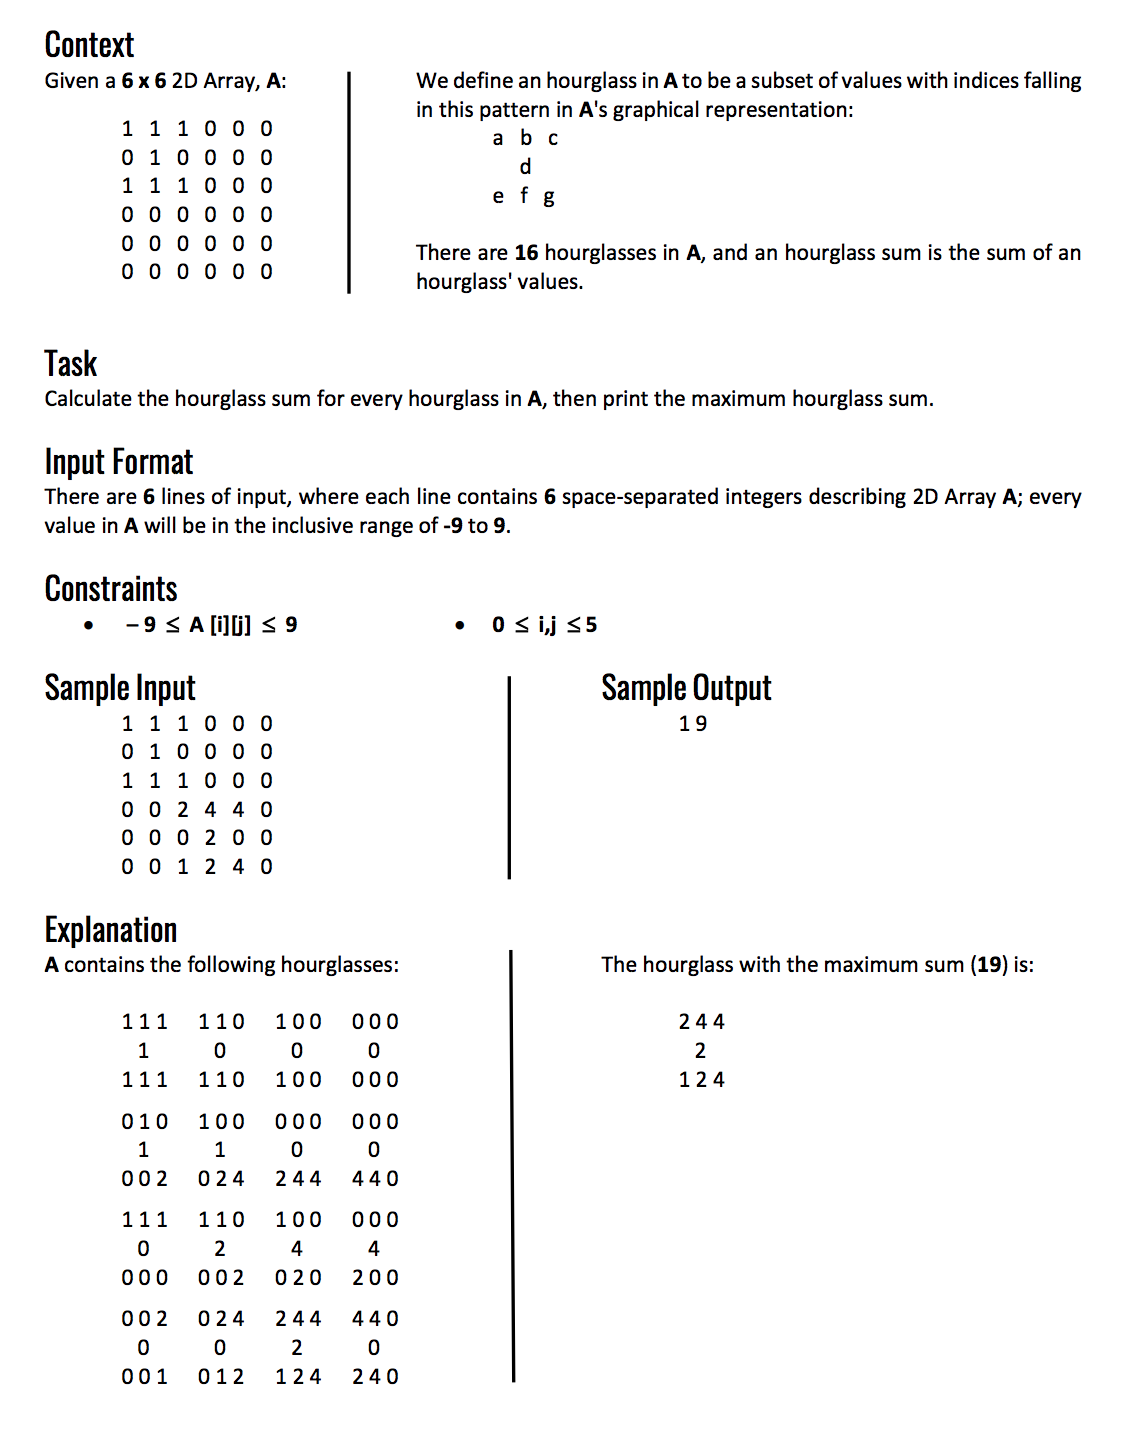
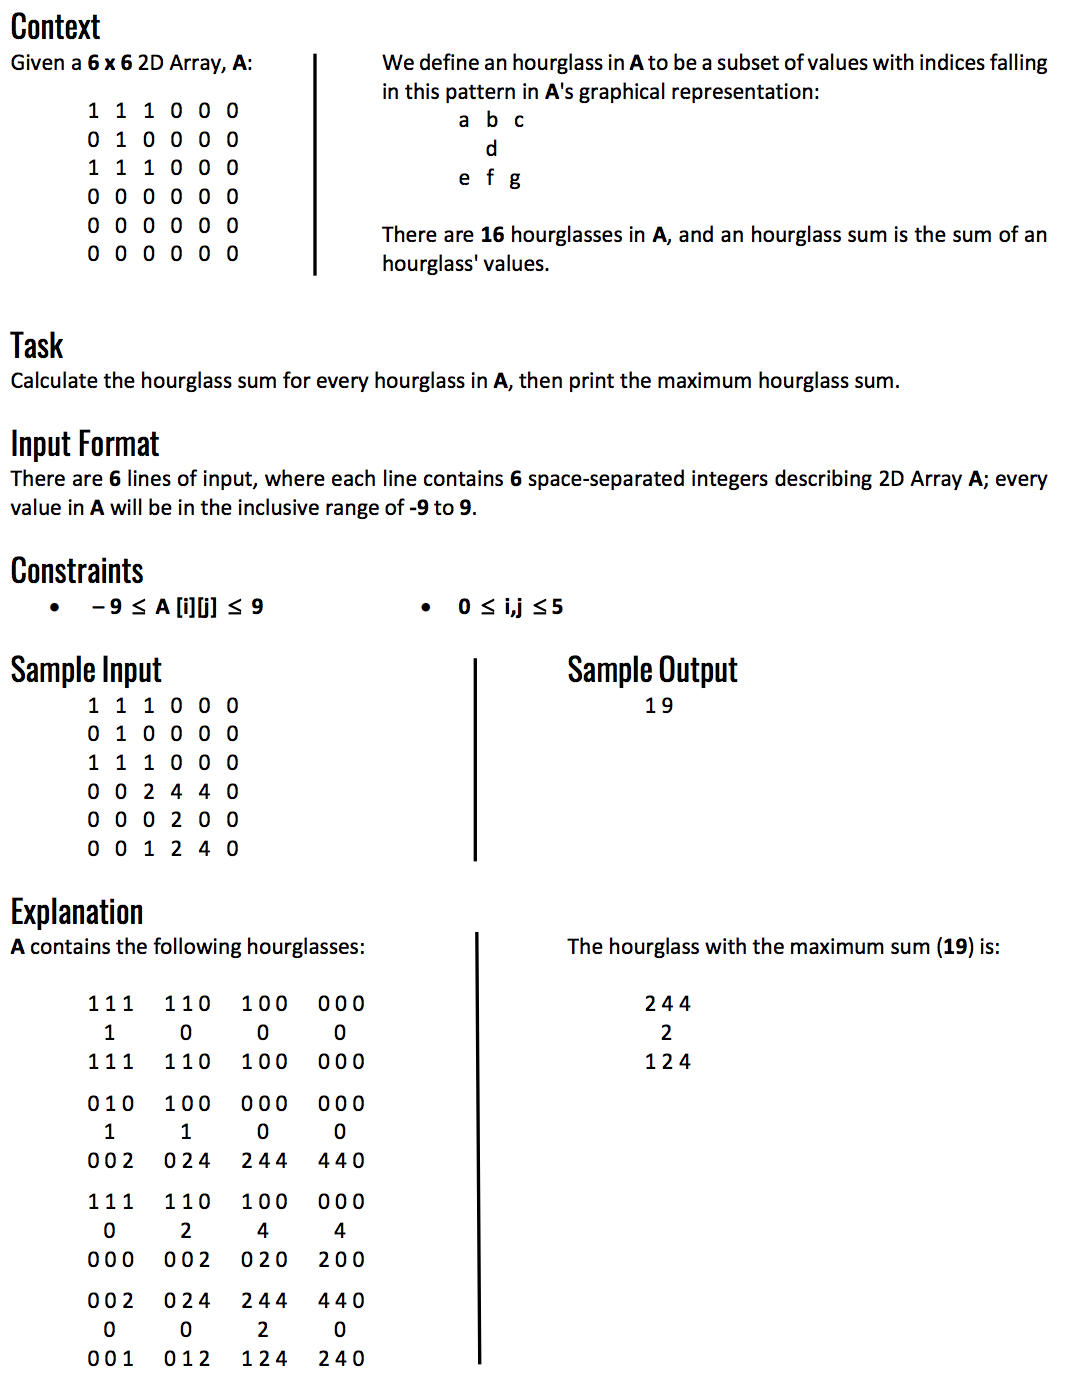
[largest-hourglass] Tune image dimensions

diff --git a/largest-hourglass/README.md b/largest-hourglass/README.md
@@ -1,3 +1,3 @@
 # Largest Hourglass
 
-![Largest Hourglass](https://github.com/fortis/challenges/blob/master/largest-hourglass/problem.png)
+![Largest Hourglass](https://github.com/fortis/challenges/blob/master/largest-hourglass/problem.png | width=700)
